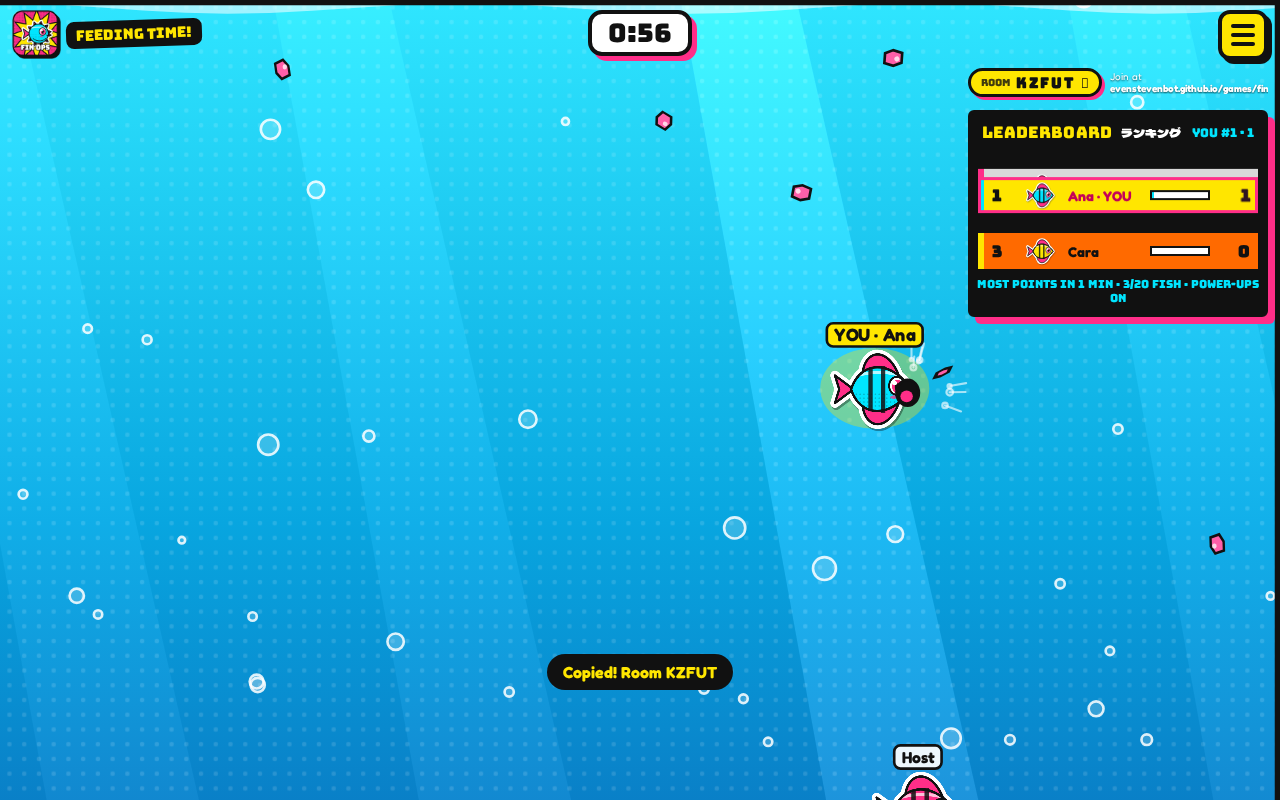
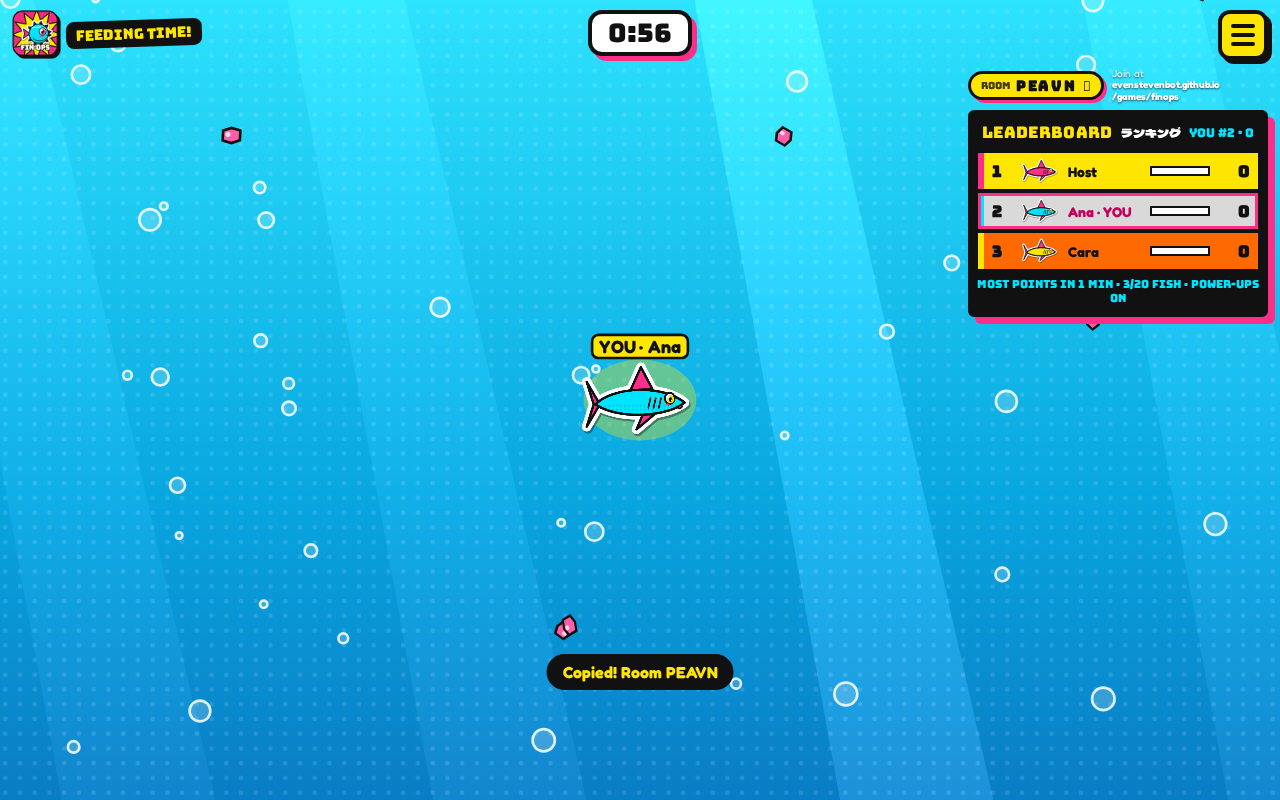
FinOps: room join hint wraps instead of clipping (1024/1280/1440/390)

diff --git a/games/finops/style.css b/games/finops/style.css
@@ -178,7 +178,7 @@ body.urgent #urgentFx { display:block; animation:flash .6s ease-in-out infinite 
 .room-pill b { letter-spacing:.12em; }
 .room-k { font-size:.62rem; opacity:.8; }
 .room-ic { font-size:.85rem; }
-.room-join { font-size:.62rem; line-height:1.15; color:#fff; text-shadow:0 1px 2px rgba(0,0,0,.7); overflow:hidden; }
+.room-join { font-size:.62rem; line-height:1.15; color:#fff; text-shadow:0 1px 2px rgba(0,0,0,.7); flex:1 1 0; min-width:0; overflow-wrap:anywhere; }
 .room-join b { display:block; font-weight:800; }
 #roomTag:not([hidden]) ~ #board { top:110px; }
 body.urgent #board { animation:wiggle .35s ease-in-out infinite; }
@@ -196,6 +196,7 @@ body.urgent #board { animation:wiggle .35s ease-in-out infinite; }
   #roomTag { left:8px; right:8px; top:58px; width:auto; }
   .room-pill { font-size:.8rem; padding:1px 8px; }
   #roomTag:not([hidden]) ~ #board { top:94px; }
+  @media (max-width:340px) { .room-join { display:none; } }
   #board { left:8px; right:8px; top:62px; width:auto; box-shadow:4px 4px 0 var(--pink); }
   .board-head { padding:6px 10px; font-size:.85rem; }
   .chev { display:inline; color:#fff; }

diff --git a/games/finops/index.html b/games/finops/index.html
@@ -68,7 +68,7 @@
 
 <div id="roomTag" hidden>
   <button id="roomCopy" class="room-pill" aria-label="Copy room code"><span class="room-k">ROOM</span><b id="roomCode">-----</b><span class="room-ic" aria-hidden="true">⧉</span></button>
-  <span class="room-join">Join at <b>evenstevenbot.github.io/games/finops</b></span>
+  <span class="room-join">Join at <b>evenstevenbot.github.io<wbr>/games/finops</b></span>
 </div>
 <aside id="board" hidden>
   <button id="boardToggle" class="board-head" aria-expanded="true"><span class="bun">LEADERBOARD</span><span class="jp">ランキング</span><span id="boardMine" class="board-mine"></span><span class="chev">▾</span></button>
